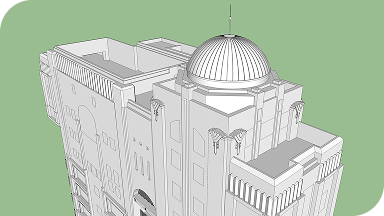
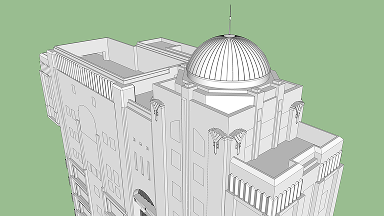
added cards+image assets

Changed region(s): [[0.9375, 0.8889, 1.0, 1.0], [0.0, 0.0, 0.0625, 0.1111]]

diff --git a/index.html b/index.html
@@ -85,6 +85,39 @@
                 </div>
             </div>
             <!-- End of Card -->
+            <!-- Start of Card -->
+            <div class="card" style="width: 18rem;">
+                <img src="images/projects-hth.png" class="card-img-top" alt="thumbnail of Hollywood Tower 3D project">
+                <div class="card-body">
+                    <h5 class="card-title">Hollywood Tower Hotel (ca. 1929)</h5>
+                    <p class="card-text">Virtual exterior model of a fictional Hollywood landmark
+                    </p>
+                    <a href="#" class="btn btn-primary">View project</a>
+                </div>
+            </div>
+            <!-- End of Card -->
+            <!-- Start of Card -->
+            <div class="card" style="width: 18rem;">
+                <img src="images/projects-bass.png" class="card-img-top" alt="thumbnail of Bass Poster project">
+                <div class="card-body">
+                    <h5 class="card-title">Saul Bass-Inspired Film Posters</h5>
+                    <p class="card-text">Series of poster designs for Christopher Nolan's The Odyssey (2026)
+                    </p>
+                    <a href="#" class="btn btn-primary">View project</a>
+                </div>
+            </div>
+            <!-- End of Card -->
+            <!-- Start of Card -->
+            <div class="card" style="width: 18rem;">
+                <img src="images/projects-tdl.png" class="card-img-top" alt="thumbnail of Tokyo Disneyland project">
+                <div class="card-body">
+                    <h5 class="card-title">Tokyo Disneyland Logo Collection</h5>
+                    <p class="card-text">Recreation of graphic elements from the park's opening year
+                    </p>
+                    <a href="#" class="btn btn-primary">View project</a>
+                </div>
+            </div>
+            <!-- End of Card -->
         </div>
     </section>
     <!-- End of Projects Section -->
